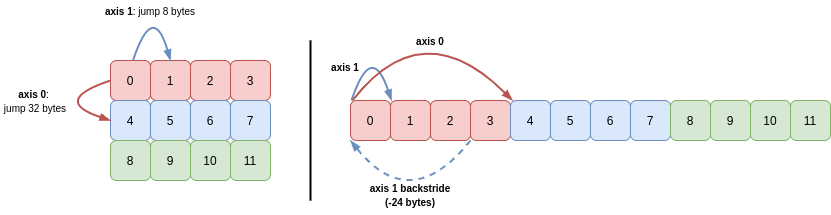
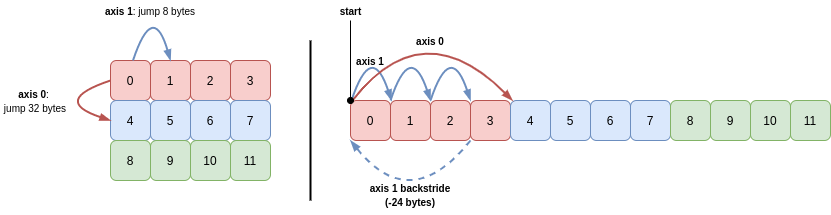
Improve explanation of backstrides

diff --git a/_posts/2020-4-11-stride-guide-part-1.md b/_posts/2020-4-11-stride-guide-part-1.md
@@ -143,7 +143,7 @@ These 1D examples demonstrate how the shape and stride attributes of an array de
 
 ### N-Dimensions
 
-The same idea applies in all higher dimensions; the array just has more axes.
+The same ideas apply in all higher dimensions. The array just has more axes, and NumPy must keep track of how to move between these axes when visiting the items in sequence.
 
 Let's look again at `b`, our 2D array with three rows and four columns:
 
@@ -176,14 +176,13 @@ To iterate over all items the 2D array `b`, the backstride for axis 1 tells NumP
 
 ![two-dimensional-array-c-order-backstrides]({{ site.baseurl }}/images/stride-guide/2d_array_b_backstrides.png)
 
-In English, this means the algorithm for visiting all items in the array in sequence is as follows:
+In English, this means the algorithm for visiting all items in the 2D array `b` in sequence is as follows:
 
-0. (Put pointer at start address in data buffer)
-1. Read 8 bytes (`b.itemsize`) from pointer to get item, then move pointer 8 bytes (`b.strides[1]`)
-2. Repeat step **1** a total of 3 times (`b.shape[1] - 1`), then read 8 bytes (read last item in row)
+1. Read 8 bytes (`b.itemsize`) from pointer to get the integer, then move pointer 8 bytes (`b.strides[1]`)
+2. Repeat step **2** a total of 3 times (`b.shape[1] - 1`), then read 8 bytes (read last integer in the row)
 3. Move pointer -24 bytes (minus backstride for axis 1)
 4. Advance 32 bytes (`b.strides[0]`)
-5. Repeat steps **1**-**5** a total of 3 times (`b.shape[0]`)
+5. Repeat steps **1**-**4** a total of 3 times to read the remaining rows (`b.shape[0]`)
 
 #### Indexing and Slicing
 
@@ -239,9 +238,21 @@ If we slice out subarrays as we did with 2D arrays (e.g. `c[1:3, :, :1]` or `c[:
 
 So for `c[:, ::-1]` (which just reverses the second axis of `c`), the strides are `(32, -16, 8)`. To iterate through this array in sequence, the start position is part-way into the memory buffer, at value 2.
 
-The sequence of strides taken to read the first four integers (2, 3, 0, 1) and then moves along axis 0 to integer 4 is as follows:
+The sequence of strides taken to read the first four integers (`2`, `3`, `0`, `1`) and then move along axis 0 to integer `4` is as follows:
 
 ![three-dimensional-array-c-order-reverse-axis-1-backstrides]({{ site.baseurl }}/images/stride-guide/3d_array_c_reverse_axis_1_backstrides.png)
+
+In words:
+
+1. Read 8 bytes (integer `2`) and then move 8 bytes (axis 2) to the next memory address 
+2. Read 8 bytes (integer `3`) and then move -8 bytes (backstride for axis 2)
+3. Move -16 bytes to advance along axis 1
+4. Read 8 bytes (integer `0`) and then move 8 bytes (axis 2) to the next memory address 
+5. Read 8 bytes (integer `1`) and then move -8 bytes (backstride for axis 2)
+6. Move 16 bytes (backstride for axis 1)
+7. Move 32 bytes to advance along axis 1
+
+Steps **1** to **6** then repeat to read the integers `6`, `7`, `4` and `5`.
 
 ## 3. Impossible Reshapes
 
